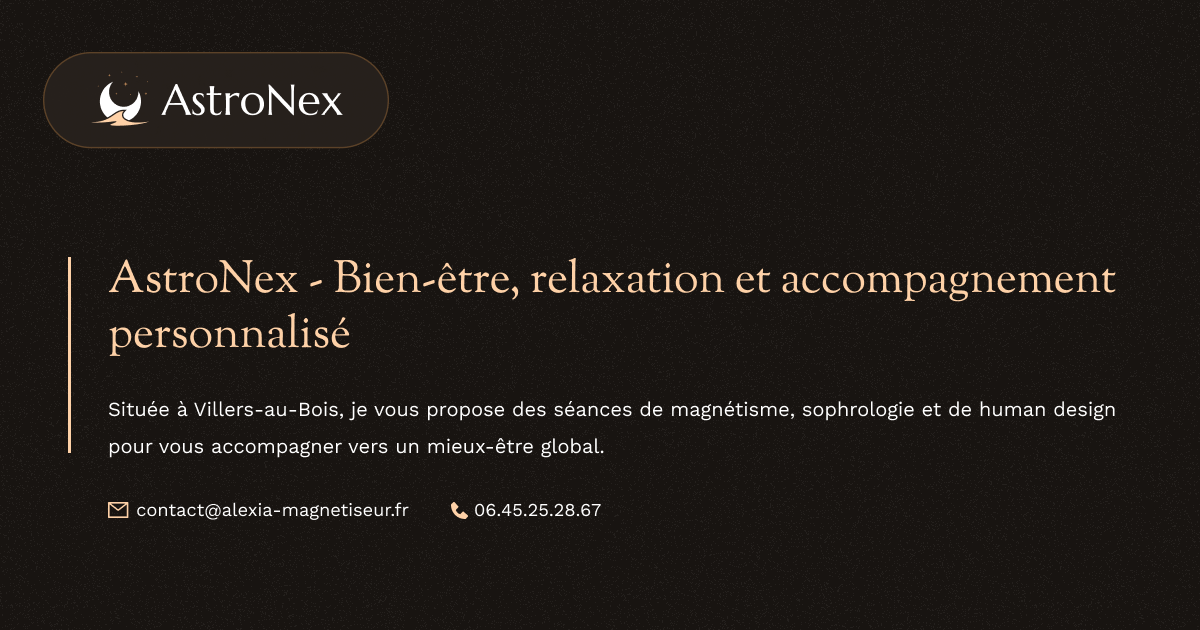
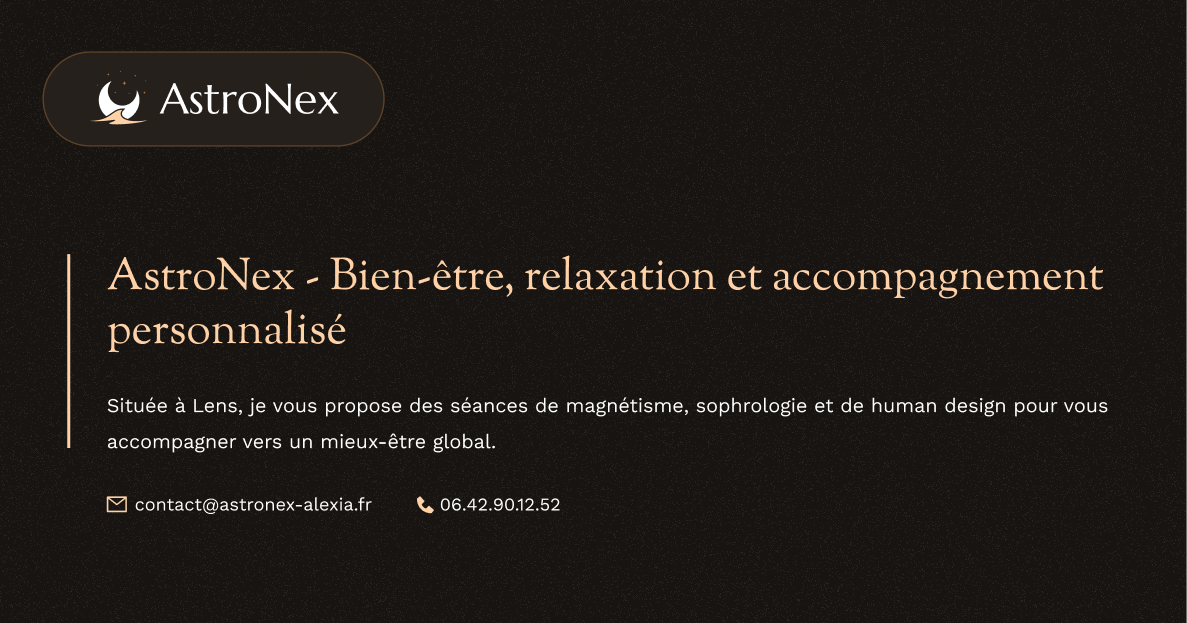
initial commit

diff --git a/src/app/mentions-legales/page.jsx b/src/app/mentions-legales/page.jsx
@@ -33,7 +33,7 @@ export default function Mentions_LegaesPage() {
                     En vertu de l’article 6 de la loi n° 2004-575 du 21 juin 2004 pour la confiance dans l’économie numérique, il est précisé aux utilisateurs du site <strong>www.alexia-magnetiseuse.fr</strong> l’identité des différents intervenants dans le cadre de sa réalisation et de son suivi :<br /><br />
                     <strong>Propriétaire :</strong> Alexia – rue du Lilas à Lens<br />
                     <strong>Création du site web :</strong> Fanny SAEZ<br />
-                    <strong>Responsable publication :</strong> Alexia – contact@alexia-magnetiseuse.fr<br />
+                    {/* <strong>Responsable publication :</strong> Astronex –  contact@astronex-alexia.fr<br /> */}
                     <strong>Webmaster :</strong> Fanny SAEZ – fanny.saez.0486@gmail.com<br />
                     {/* <strong>Hébergeur :</strong> Infomaniak – 26 Avenue de la Praille, 1227 Carouge, Suisse<br />
                     <strong>Crédits photos :</strong> Adobe Stock, Pexels<br /> */}
@@ -43,14 +43,14 @@ export default function Mentions_LegaesPage() {
             <section className={styles.section}>
                 <h2 className={styles.sectionTitle}>2. Conditions générales d’utilisation du site et des services proposés</h2>
                 <p className={styles.text}>
-                    L’utilisation du site <strong>www.alexia-magnetiseuse.fr</strong> implique l’acceptation pleine et entière des conditions générales d’utilisation ci-après décrites. Ces conditions d’utilisation sont susceptibles d’être modifiées ou complétées à tout moment, les utilisateurs du site sont donc invités à les consulter de manière régulière.
+                    L’utilisation du site implique l’acceptation pleine et entière des conditions générales d’utilisation ci-après décrites. Ces conditions d’utilisation sont susceptibles d’être modifiées ou complétées à tout moment, les utilisateurs du site sont donc invités à les consulter de manière régulière.
                 </p>
             </section>
 
             <section className={styles.section}>
                 <h2 className={styles.sectionTitle}>3. Description des services fournis</h2>
                 <p className={styles.text}>
-                    Le site <strong>www.alexia-magnetiseuse.fr</strong> a pour objet de fournir une information concernant l’ensemble des activités de la société. Toutes les informations indiquées sur le site sont données à titre indicatif, et sont susceptibles d’évoluer.
+                    Le site a pour objet de fournir une information concernant l’ensemble des activités de la société. Toutes les informations indiquées sur le site sont données à titre indicatif, et sont susceptibles d’évoluer.
                 </p>
             </section>
 
@@ -78,21 +78,21 @@ export default function Mentions_LegaesPage() {
             <section className={styles.section}>
                 <h2 className={styles.sectionTitle}>7. Gestion des données personnelles</h2>
                 <p className={styles.text}>
-                    Les données personnelles sont notamment protégées par la loi n° 78-87 du 6 janvier 1978, la loi n° 2004-801 du 6 août 2004, l’article L. 226-13 du Code pénal et la Directive Européenne du 24 octobre 1995. Aucune information personnelle de l’utilisateur du site <strong>www.alexia-magnetiseuse.fr</strong> n’est publiée à l’insu de l’utilisateur, échangée, transférée, cédée ou vendue sur un support quelconque à des tiers.
+                    Les données personnelles sont notamment protégées par la loi n° 78-87 du 6 janvier 1978, la loi n° 2004-801 du 6 août 2004, l’article L. 226-13 du Code pénal et la Directive Européenne du 24 octobre 1995. Aucune information personnelle de l’utilisateur du site n’est publiée à l’insu de l’utilisateur, échangée, transférée, cédée ou vendue sur un support quelconque à des tiers.
                 </p>
             </section>
 
             <section className={styles.section}>
                 <h2 className={styles.sectionTitle}>8. Liens hypertextes et cookies</h2>
                 <p className={styles.text}>
-                    Le site <strong>www.alexia-magnetiseuse.fr</strong> contient un certain nombre de liens hypertextes vers d’autres sites, mis en place avec l’autorisation de Alexia Anduskiewicz. La navigation sur le site est susceptible de provoquer l’installation de cookie(s) sur l’ordinateur de l’utilisateur. Un cookie est un fichier de petite taille, qui ne permet pas l’identification de l’utilisateur, mais qui enregistre des informations relatives à la navigation d’un ordinateur sur un site.
+                    Le site contient un certain nombre de liens hypertextes vers d’autres sites, mis en place avec l’autorisation de Alexia Anduskiewicz. La navigation sur le site est susceptible de provoquer l’installation de cookie(s) sur l’ordinateur de l’utilisateur. Un cookie est un fichier de petite taille, qui ne permet pas l’identification de l’utilisateur, mais qui enregistre des informations relatives à la navigation d’un ordinateur sur un site.
                 </p>
             </section>
 
             <section className={styles.section}>
                 <h2 className={styles.sectionTitle}>9. Droit applicable et attribution de juridiction</h2>
                 <p className={styles.text}>
-                    Tout litige en relation avec l’utilisation du site <strong>www.alexia-magnetiseuse.fr</strong> est soumis au droit français. Il est fait attribution exclusive de juridiction aux tribunaux compétents de Paris.
+                    Tout litige en relation avec l’utilisation du site est soumis au droit français. Il est fait attribution exclusive de juridiction aux tribunaux compétents de Paris.
                 </p>
             </section>
 
